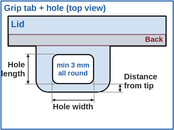
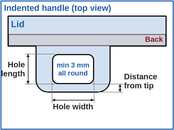
Grooved lid: grip type 'Handle + Hole' renamed to 'Indented Handle'

Changed region(s): [[0.0, 0.0308, 0.6609, 0.0923]]

diff --git a/Simple_Box_Creator_dev.html b/Simple_Box_Creator_dev.html
@@ -386,13 +386,13 @@
             <div class="sub-panel">
               <div class="sub-panel-title">Grip</div>
               <!-- None / Finger Hole / Grab Handle - option texts are read back by Lua, never translate them -- by Claude 10/26/2026 -->
-              <div class="field-row" title="How the lid is pulled out. None: no grip, the lid ends flush with the Back. Finger Hole: a finger hole (or recess) near the lid's back end, centred. Grab Handle: a grip tab that overhangs the Back. Handle + Hole: a grip tab with a finger hole, which may also sit in the overhang.">
-                <label for="LidGripType" style="width: 60px;">Grip</label>
-                <select id="LidGripType" style="width: 135px;" onchange="onLidGripTypeChanged(); onGeometryFieldChanged();">
+              <div class="field-row" title="How the lid is pulled out. None: no grip, the lid ends flush with the Back. Finger Hole: a finger hole (or recess) near the lid's back end, centred. Grab Handle: a grip tab that overhangs the Back. Indented Handle: a grip tab with a finger hole, which may also sit in the overhang.">
+                <label for="LidGripType" style="width: 50px;">Grip</label>
+                <select id="LidGripType" style="width: 150px;" onchange="onLidGripTypeChanged(); onGeometryFieldChanged();">
                   <option value="None">None</option>
                   <option value="Finger Hole">Finger Hole</option>
                   <option value="Grab Handle">Grab Handle</option>
-                  <option value="Handle + Hole">Handle + Hole</option>
+                  <option value="Indented Handle">Indented Handle</option>
                 </select>
               </div>
               <div id="showHideLidGripFields">
@@ -414,7 +414,7 @@
                 <label for="LidHoleLengthField">Hole length</label>
                 <input type="number" step="any" id="LidHoleLengthField" placeholder="Length" onkeydown="return event.keyCode !== 189 && event.keyCode !== 109;" onchange="onGeometryFieldChanged()"/>
               </div>
-              <div class="field-row" style="margin-bottom: 0;" title="Distance from the lid's rearmost edge to the near edge of the finger hole - the back edge (flush with the outside of the Back), or with Handle + Hole the tip of the grip tab. The hole may go right up to that edge - at least 3 mm of lid has to stay behind it (and, inside the grip tab, on each side of it). The hole must end before the Front's inside face.">
+              <div class="field-row" style="margin-bottom: 0;" title="Distance from the lid's rearmost edge to the near edge of the finger hole - the back edge (flush with the outside of the Back), or with Indented Handle the tip of the grip tab. The hole may go right up to that edge - at least 3 mm of lid has to stay behind it (and, inside the grip tab, on each side of it). The hole must end before the Front's inside face.">
                 <label for="LidHoleDistanceField">Distance from edge</label>
                 <input type="number" step="any" id="LidHoleDistanceField" placeholder="Distance" onkeydown="return event.keyCode !== 189 && event.keyCode !== 109;" onchange="onGeometryFieldChanged()"/>
               </div>
@@ -832,9 +832,9 @@
   }
   function onLidGripTypeChanged() {
     var type = selectedValue("LidGripType", "Grab Handle");
-    var handle = (type === "Grab Handle" || type === "Handle + Hole");
-    var hole = (type === "Finger Hole" || type === "Handle + Hole");
-    var both = handle && hole;   // Handle + Hole -- by Claude 10/27/2026
+    var handle = (type === "Grab Handle" || type === "Indented Handle");
+    var hole = (type === "Finger Hole" || type === "Indented Handle");
+    var both = handle && hole;   // Indented Handle -- by Claude 10/27/2026
     var show = function (id, on) { var el = document.getElementById(id); if (el) { el.style.display = on ? "" : "none"; } };
     show("showHideLidGripFields", handle);
     show("showHideLidHandleShape", handle);
